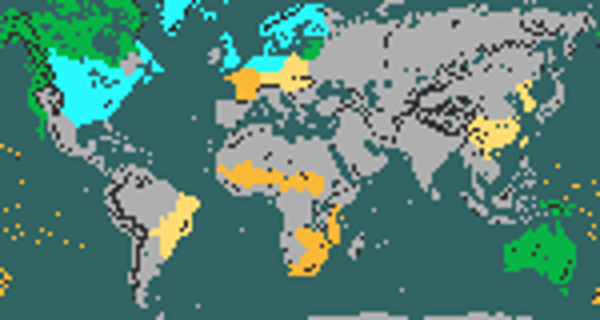
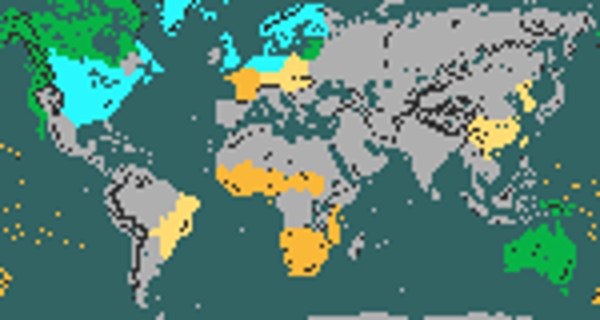
Change congress weight of Holy Rome (Bavaria) and Hungary (Austria-Hungary)
Add Catholic-Protestant preference for Hungary (slight protestant lean).
Re-assign some leftover Austria code to Hungary.
Add some African regions to Protestant or Catholic religion maps.
Add Nantes tile back to Frankish settler map, to encourage it to settler there in Brittany over any other tile.
Slightly reduce Byzantine unit costs.
Increase Arabian unit costs.
Reduce amount of Arabian starting defenders slightly.

Changed region(s): [[0.45, 0.6875, 0.51, 0.8438], [0.36, 0.5312, 0.48, 0.625]]

diff --git a/Assets/Python/Areas.py b/Assets/Python/Areas.py
@@ -110,7 +110,6 @@ iPeriodPtolemaicEgypt :	(77, 44), # Alexandria
 # new capital locations if changed during the game
 dNewCapitals = CivDict({
 iJapan :	(140, 54),	# Tokyo
-iHolyRome :	(72, 59),	# Vienna
 iItaly :	(68, 53),	# Rome
 iMongols :	(125, 56),	# Khanbaliq
 iOttomans :	(79, 55),	# Istanbul
@@ -135,7 +134,6 @@ iCelts :	(54, 65),	# Dublin
 iEthiopia :	(84, 32),	# Addis Ababa
 iJapan :	(140, 54),	# Tokyo
 iTurks : 	(97, 49),	# Herat
-iHolyRome :	(72, 59),	# Vienna
 iInca :		(28, 25),	# Lima
 iItaly :	(68, 53),	# Rome
 iTimurids :	(99, 43),	# Karachi --> Pakistan period
@@ -166,7 +164,7 @@ iByzantium :	((72, 48),	(87, 57)),
 iSpain :		((56, 50),	(63, 56)),
 iFrance :		((57, 57),	(63, 63)),
 iMalays :		((115, 26),	(121, 33)),
-iJapan : 		((134, 49),	(140, 56)),
+iJapan :		((134, 49),	(140, 56)),
 iTurks :		((96, 52),	(115, 60)),
 iArabia :		((76, 35),	(96, 50)),
 iTibet :		((105, 47),	(117, 53)),
@@ -465,7 +463,7 @@ iNubia :	((78, 36),	(82, 39)),
 iArabia:	((84, 38),	(91, 43)), # Saudi core
 iMamluks :	((74, 39),	(83, 45)), # same as core
 iEngland :	((55, 62),	(59, 67)), # England proper
-iHolyRome :		((65, 59),	(68, 62)), # Bavaria, Switzerland, some of Rhineland
+iHolyRome :	((65, 59),	(68, 62)), # Bavaria, Switzerland, some of Rhineland
 })
 
 dRespawnAreaExceptions = CivDict({

diff --git a/Assets/Python/RegionMap.py b/Assets/Python/RegionMap.py
@@ -45,14 +45,14 @@ tSpreadFactors = (
 {
 	iCore :		set([rFrance, rCentralEurope, rPoland, rIreland, rItaly, rIberia]),
 	iHistorical :	set([rBritain, rLowerGermany, rQuebec, rMaritimes, rAtlanticSeaboard, rCaribbean, rAridoamerica, rMesoamerica, rCentralAmerica, rNewGranada, rAndes, rAmazonia, rBrazil, rSouthernCone, rCape, rPhilippines, rNorway, rDenmark, rSweden]),
-	iPeriphery :	set([rBalkans, rGreece, rAmericanArctic, rOntario, rMidwest, rDeepSouth, rGreatPlains, rCalifornia, rAustralia, rOceania, rGuinea, rCongo, rSwahiliCoast, rMadagascar]),
+	iPeriphery :	set([rBalkans, rGreece, rAmericanArctic, rOntario, rMidwest, rDeepSouth, rGreatPlains, rCalifornia, rAustralia, rOceania, rGuinea, rSahel, rCongo, rSwahiliCoast, rMadagascar]),
 	iMinority: set([rJapan]),
 },
 # Protestantism
 {
 	iCore :			set([rBritain, rLowerGermany, rDenmark, rNorway, rSweden, rAtlanticSeaboard, rMidwest, rOntario, rGreatPlains, rDeepSouth, rMaritimes]),
 	iHistorical :	set([rBaltics, rCalifornia, rCascadia, rAmericanArctic, rAustralia]),
-	iPeriphery :	set([rFrance, rOceania, rCape, rZambezi, rSahel, rSwahiliCoast]),
+	iPeriphery :	set([rFrance, rOceania, rCape, rZambezi, rSahel, rSwahiliCoast, rGuinea, rKalahari]),
 	iMinority : 	set([rPoland, rCentralEurope, rBrazil, rKorea, rSouthChina]),
 },
 # Islam

diff --git a/Assets/Python/DrawMaps.py b/Assets/Python/DrawMaps.py
@@ -295,14 +295,14 @@ tSpreadFactors = (
 {
 	iCore :		[rFrance, rCentralEurope, rPoland, rIreland, rItaly, rIberia],
 	iHistorical :	[rBritain, rLowerGermany, rQuebec, rMaritimes, rAtlanticSeaboard, rCaribbean, rAridoamerica, rMesoamerica, rCentralAmerica, rNewGranada, rAndes, rAmazonia, rBrazil, rSouthernCone, rCape, rPhilippines, rNorway, rDenmark, rSweden],
-	iPeriphery :	[rBalkans, rGreece, rAmericanArctic, rOntario, rMidwest, rDeepSouth, rGreatPlains, rCalifornia, rAustralia, rOceania, rGuinea, rCongo, rSwahiliCoast, rMadagascar],
+	iPeriphery :	[rBalkans, rGreece, rAmericanArctic, rOntario, rMidwest, rDeepSouth, rGreatPlains, rCalifornia, rAustralia, rOceania, rGuinea, rSahel, rCongo, rSwahiliCoast, rMadagascar],
 	iMinority: [rJapan],
 },
 # Protestantism
 {
 	iCore :			[rBritain, rLowerGermany, rDenmark, rNorway, rSweden, rAtlanticSeaboard, rMidwest, rOntario, rGreatPlains, rDeepSouth, rMaritimes],
 	iHistorical :	[rBaltics, rCalifornia, rCascadia, rAmericanArctic, rAustralia],
-	iPeriphery :	[rFrance, rOceania, rCape, rZambezi, rSahel, rSwahiliCoast],
+	iPeriphery :	[rFrance, rOceania, rCape, rZambezi, rSahel, rSwahiliCoast, rGuinea, rKalahari],
 	iMinority : 	[rPoland, rCentralEurope, rBrazil, rKorea, rSouthChina]
 },
 # Islam

diff --git a/Assets/Python/History.py b/Assets/Python/History.py
@@ -545,7 +545,7 @@ def chineseRelations(iPlayer):
 		player(iChinaPlayer).AI_changeMemoryCount(iPlayer, MemoryTypes.MEMORY_EVENT_BAD_TO_US, 4)
 
 @handler("birth")
-def stabilizeAustria(iPlayer):
+def stabilizeBavaria(iPlayer):
 	if civ(iPlayer) == iGermany:
 		iHolyRomanPlayer = slot(iHolyRome)
 
@@ -616,7 +616,7 @@ def flipMoorishMaghreb(iPlayer):
 			makeUnit(iPlayer, iWorker, city)
 
 @handler("flip")
-def stabilizeAustriaAfterGermany(iPlayer):
+def stabilizeBavariaAfterGermany(iPlayer):
 	if civ(iPlayer) == iGermany:
 		if player(iHolyRome).isExisting():
 			data.players[iHolyRome].iNumPreviousCities = player(iHolyRome).getNumCities()

diff --git a/Assets/Python/DynamicCivs.py b/Assets/Python/DynamicCivs.py
@@ -268,7 +268,7 @@ def onCityRazed(city):
 def onCityBuilt(city):
 	checkName(city.getOwner())
 
-def handleHolyRome(iPlayer, iCiv, iPeriod):
+def handleHungary(iPlayer, iCiv, iPeriod):
 	if iPeriod == -1:
 		setShort(iPlayer, infos.civ(iCiv).getShortDescription(0))
 		setAdjective(iPlayer, infos.civ(iCiv).getAdjective(0))
@@ -324,7 +324,7 @@ def handleAztecs(iPlayer, iCiv, iPeriod):
 		setAdjective(iPlayer, text("TXT_KEY_CIV_MEXICO_ADJECTIVE"))
 
 dCivPeriodNameChanges = {
-	iHolyRome: handleHolyRome,
+	iHungary: handleHungary,
 	iPhoenicia: handlePhoenicia,
 	iNorse: handleNorse,
 	iTurks: handleTurks,

diff --git a/Assets/Python/Naming/SpecificAdjectives.py b/Assets/Python/Naming/SpecificAdjectives.py
@@ -296,7 +296,7 @@ def spainSpecificAdjective(args):
         return "TXT_KEY_CIV_SPAIN_CASTILIAN"
 
 def franksSpecificAdjective(args):
-    if year() >= year(dBirth[iHolyRome]) and player(iHolyRome).isExisting() and player(iFrance).isExisting():
+    if year() >= year(dBirth[iHolyRome]) and player(iHolyRome).isExisting() or player(iFrance).isExisting():
         return "TXT_KEY_CIV_FRANCIA_LOTHARINGIAN"
     elif args.tPlayer.isHasTech(iNobility):
         return "TXT_KEY_CIV_FRANCIA_CAROLINGIAN" 

diff --git a/Assets/Python/Naming/SpecificNames.py b/Assets/Python/Naming/SpecificNames.py
@@ -202,7 +202,7 @@ def spainSpecificName(args):
 		return "TXT_KEY_CIV_SPAIN_CASTILE"
 
 def franksSpecificName(args):
-    if year() >= year(dBirth[iHolyRome]) and player(iHolyRome).isExisting() and player(iFrance).isExisting():
+    if year() >= year(dBirth[iHolyRome]) and player(iHolyRome).isExisting() or player(iFrance).isExisting():
         return "TXT_KEY_CIV_FRANCIA_LOTHARINGIA"
 
 def englandSpecificName(args):

diff --git a/Assets/Python/Modifiers.py b/Assets/Python/Modifiers.py
@@ -839,7 +839,7 @@ dUnitCostMods = CivDict({
 	iMali: 120,
 	iNigeria: 90,
 	iZulu: 120,
-	iByzantium: 130,
+	iByzantium: 125,
 	iKhazars: 100,
 	iBulgaria: 85,
 	iFrance: 85,
@@ -851,7 +851,7 @@ dUnitCostMods = CivDict({
 	iSpain: 95,
 	iNorse: 90,
 	iTurks: 70,
-	iArabia: 115,
+	iArabia: 125,
 	iMamluks: 110,
 	iTunis: 105,
 	iTibet: 115,

diff --git a/Assets/Python/Scenarios/Scenario1700AD.py b/Assets/Python/Scenarios/Scenario1700AD.py
@@ -264,7 +264,7 @@ scenario1700AD = Scenario(
 	dCivilizationDescriptions = {
 		iTurks: "TXT_KEY_CIV_UZBEKS_DESC",
 		iNorse: "TXT_KEY_CIV_DENMARK_DESC",
-		iHolyRome: "TXT_KEY_CIV_AUSTRIA_DESC",
+		iHungary: "TXT_KEY_CIV_AUSTRIA_DESC",
 		iEngland: "TXT_KEY_CIV_BRITAIN_DESC",
 		iGermany: "TXT_KEY_CIV_HOLY_ROMAN_DESC",
 	},

diff --git a/Assets/Python/Civilizations.py b/Assets/Python/Civilizations.py
@@ -1104,11 +1104,11 @@ dStartingUnits = CivDict({
 	iArabia: {
 		iSettle: 2,
 		iWork: 3,
-		iDefend: 3,
+		iDefend: 1,
 		iShock: 8,
 		iAttack: 9,
 		iSiege: 6,
-		iCounter: 4,
+		iCounter: 3,
 		iEscort: 1,
 		iFerry: 1,
 	},

diff --git a/Assets/Python/Congresses.py b/Assets/Python/Congresses.py
@@ -167,9 +167,10 @@ class Congress:
 			iOttomans: 3,
 			iItaly: 3,
 			iGermany: 3,
-			iHolyRome: 3,
 			iRussia: 3,
+			iHungary: 3,
 			
+			iHolyRome: 2,
 			iSweden: 2,
 			iRome: 2,
 			iJapan: 2,

diff --git a/Assets/Python/Religions.py b/Assets/Python/Religions.py
@@ -38,8 +38,8 @@ iRussia		: 80,
 iCongo		: 80,
 iGermany	: 25,
 iNetherlands: 10,
+iHungary	: 45,
 iAmerica	: 20,
-iMamluks	: 80,
 }, 50)
 
 def getCatholicPreference(iPlayer):
